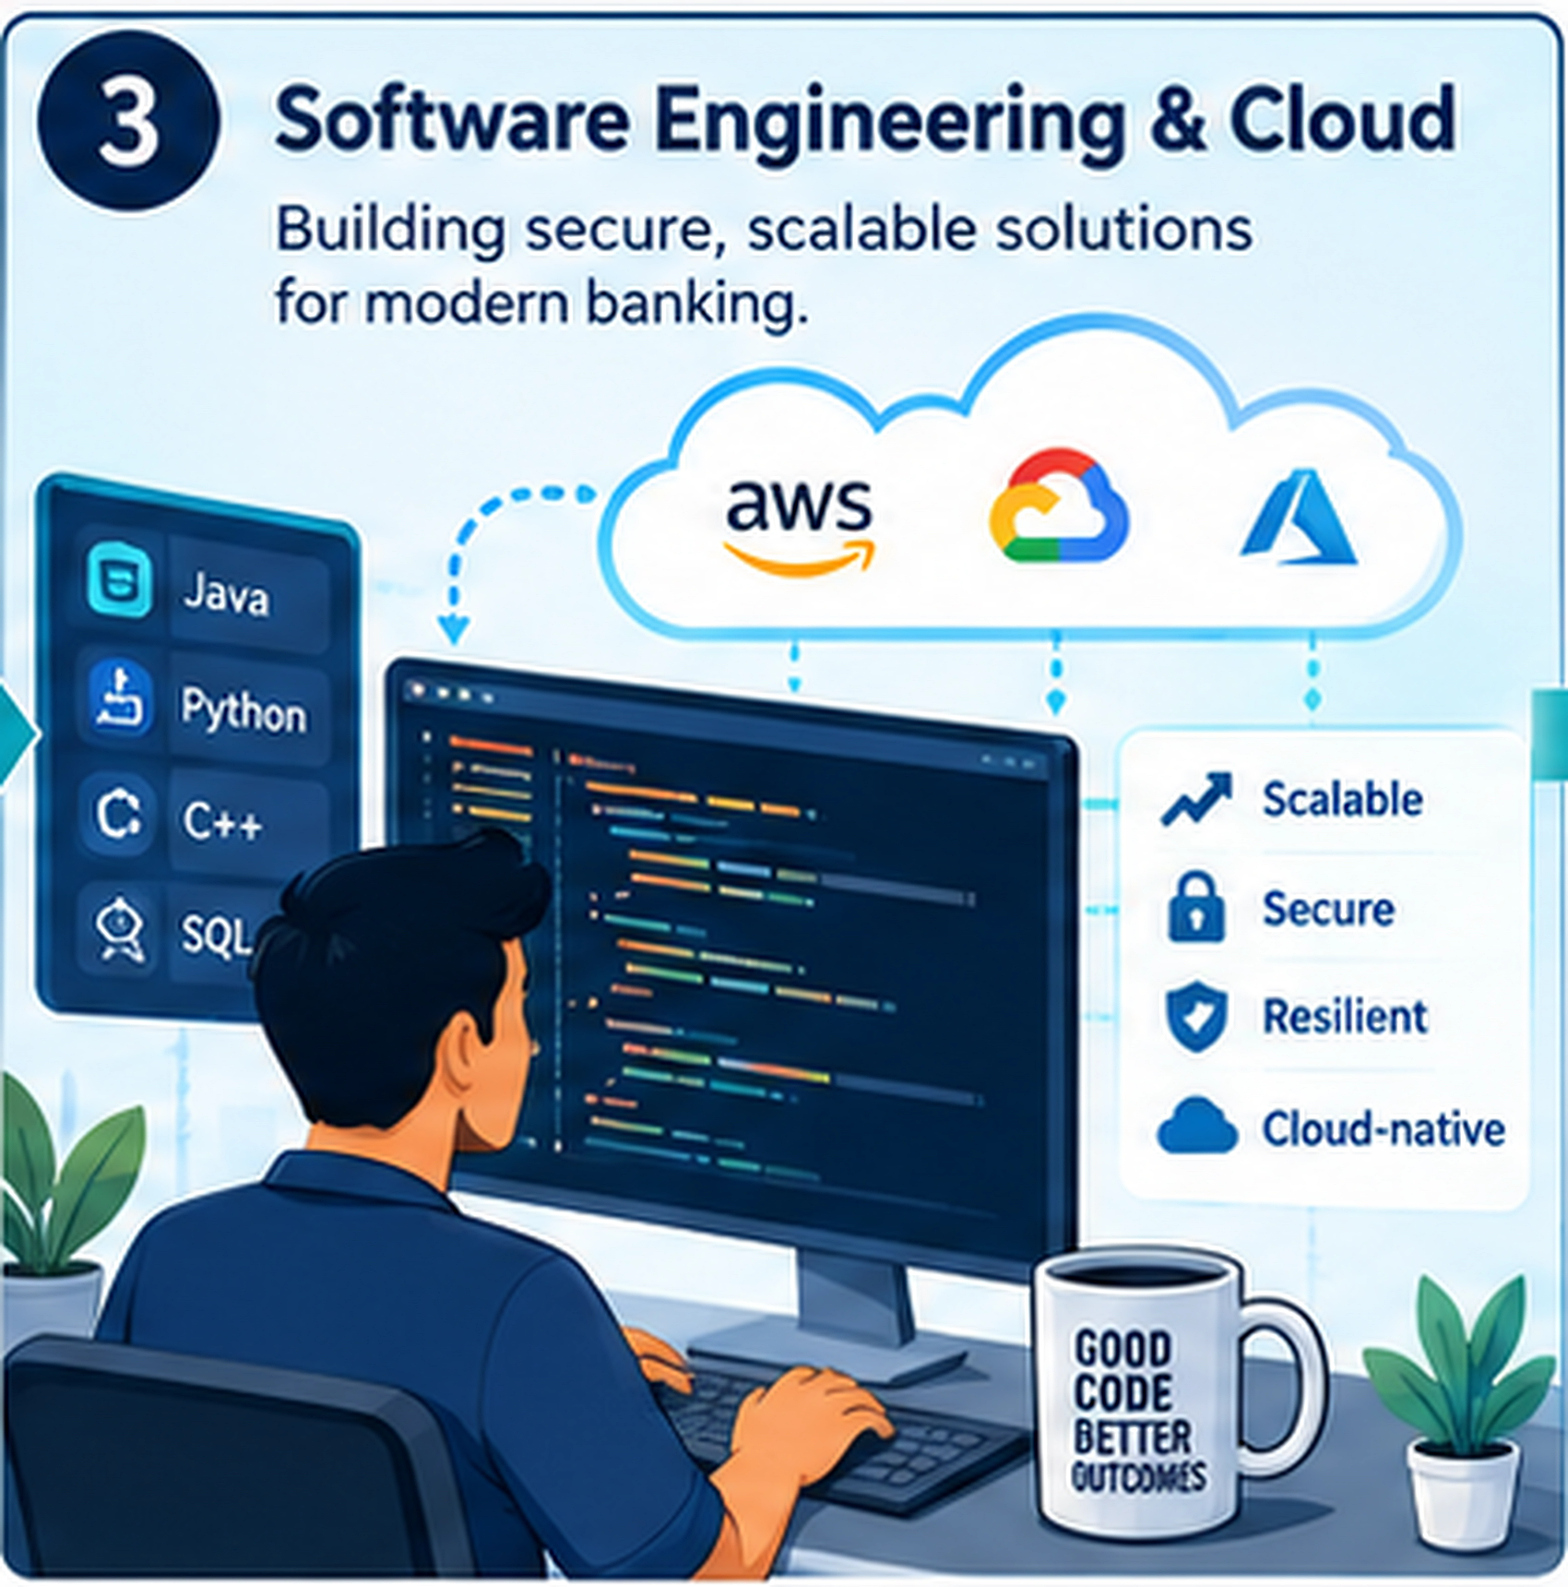
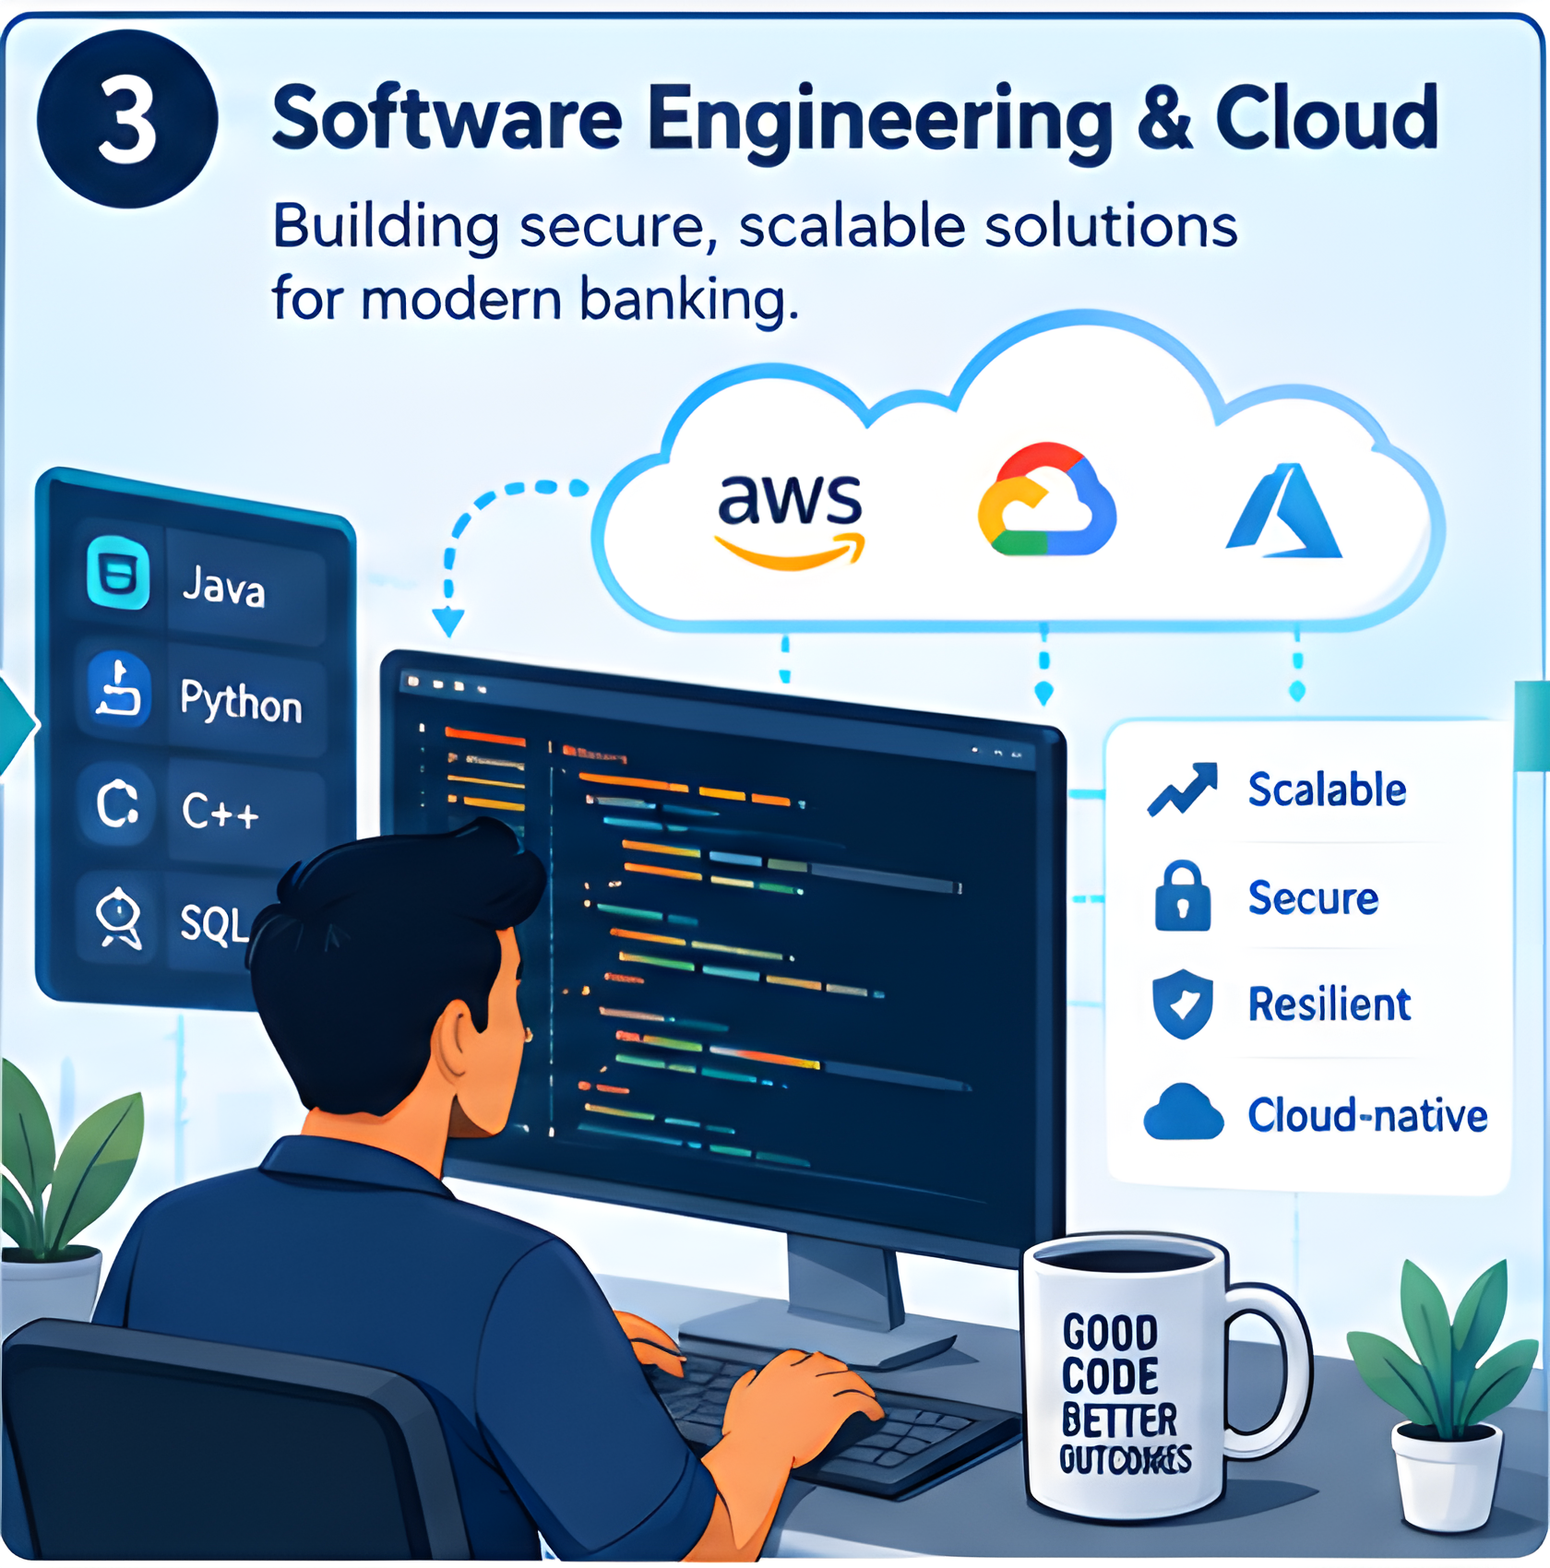
Frame-accurate renderer, Real-ESRGAN panels, full-height slides with push-in
Claude-Session: https://claude.ai/code/session_01LCCqAd9Y5JQ2y1siSFa5nV

diff --git a/render/scene.html b/render/scene.html
@@ -47,8 +47,9 @@
   .scene.active{ opacity:1; }
 
   .panel-wrap{ position:absolute; inset:0; overflow:hidden; background:#060E1E; }
-  .panel-wrap .card{ position:absolute; left:0; top:0; width:100%; will-change:transform; }
-  .panel-wrap .card img{ display:block; width:100%; height:auto; }
+  .panel-wrap img.bg{ position:absolute; inset:-60px; width:calc(100% + 120px); height:calc(100% + 120px); object-fit:cover; filter:blur(34px) brightness(0.55) saturate(1.1); }
+  .panel-wrap .card{ position:absolute; top:0; left:50%; height:1080px; transform:translateX(-50%); will-change:transform; }
+  .panel-wrap .card img{ display:block; height:100%; width:auto; }
 
   .tagline-wrap{
     position:absolute; left:0; right:0; bottom:16px; z-index:40;
@@ -76,9 +77,17 @@
   .kicker.show{ animation:taglineIn 0.7s ease forwards; }
 
   /* Ken Burns per-scene: each scene gets its own keyframes so start/end framing is intentional */
-  /* full-width slide: hold on the top, pan down to the bottom, hold; --pan is set per scene by JS */
-  @keyframes kb-pan{ 0%{ transform:translateY(0);} 18%{ transform:translateY(0);} 82%{ transform:translateY(var(--pan,0px));} 100%{ transform:translateY(var(--pan,0px));} }
-  .panel-wrap .card{ animation:kb-pan var(--dur,20s) cubic-bezier(.45,0,.2,1) forwards; }
+  @keyframes kb-push{ 0%{ transform:translateX(-50%) scale(1);} 26%{ transform:translateX(-50%) scale(1);} 80%{ transform:translateX(-50%) scale(1.5);} 100%{ transform:translateX(-50%) scale(1.5);} }
+  .panel-wrap .card{ animation:kb-push var(--dur,20s) cubic-bezier(.45,0,.2,1) forwards; }
+  .panel-wrap.s1 .card{ transform-origin:50% 58%; }
+  .panel-wrap.s2 .card{ transform-origin:58% 55%; }
+  .panel-wrap.s3 .card{ transform-origin:50% 48%; }
+  .panel-wrap.s4 .card{ transform-origin:60% 42%; }
+  .panel-wrap.s5 .card{ transform-origin:42% 48%; }
+  .panel-wrap.s6 .card{ transform-origin:58% 40%; }
+  .panel-wrap.s7 .card{ transform-origin:50% 55%; }
+  .panel-wrap.s8 .card{ transform-origin:50% 55%; }
+  .panel-wrap.s9 .card{ transform-origin:50% 68%; }
 
   /* ---- scene 4 bug gag overlay (kept, layered on top of the real art) ---- */
   #s4 .buggag{ position:absolute; bottom:28px; left:60px; right:60px; height:60px; z-index:30; }
@@ -150,43 +159,43 @@
   <div id="brand"><div class="dot"></div><div class="word">CAPCO</div><div class="sub">Technology Team</div></div>
 
   <div class="scene" id="s1">
-    <div class="panel-wrap s1"><div class="card"><img src="panels/panel1.png"></div></div>
+    <div class="panel-wrap s1"><img class="bg" src="panels/panel1.png"><div class="card"><img src="panels/panel1.png"></div></div>
     <div class="tagline-wrap"><div class="tagline">PEOPLE + TECHNOLOGY + BETTER OUTCOMES</div></div>
   </div>
 
   <div class="scene" id="s2">
-    <div class="panel-wrap s2"><div class="card"><img src="panels/panel2.png"></div></div>
+    <div class="panel-wrap s2"><img class="bg" src="panels/panel2.png"><div class="card"><img src="panels/panel2.png"></div></div>
     <div class="tagline-wrap"><div class="tagline">CLEAN → TRANSFORM → ANALYZE → INSIGHT</div></div>
   </div>
 
   <div class="scene" id="s3">
-    <div class="panel-wrap s3"><div class="card"><img src="panels/panel3.png"></div></div>
+    <div class="panel-wrap s3"><img class="bg" src="panels/panel3.png"><div class="card"><img src="panels/panel3.png"></div></div>
     <div class="tagline-wrap"><div class="tagline">BUILD. CONNECT. SCALE.</div></div>
   </div>
 
   <div class="scene" id="s4">
-    <div class="panel-wrap s4"><div class="card"><img src="panels/panel4.png"></div></div>
+    <div class="panel-wrap s4"><img class="bg" src="panels/panel4.png"><div class="card"><img src="panels/panel4.png"></div></div>
     <div class="buggag"><div class="track"></div><div class="scanner"></div><div class="bug">🐞</div></div>
     <div class="tagline-wrap"><div class="tagline">HIGHER QUALITY. GREATER CONFIDENCE.</div></div>
   </div>
 
   <div class="scene" id="s5">
-    <div class="panel-wrap s5"><div class="card"><img src="panels/panel5.png"></div></div>
+    <div class="panel-wrap s5"><img class="bg" src="panels/panel5.png"><div class="card"><img src="panels/panel5.png"></div></div>
     <div class="tagline-wrap"><div class="tagline">AUTOMATE → MODERNIZE → ACCELERATE</div></div>
   </div>
 
   <div class="scene" id="s6">
-    <div class="panel-wrap s6"><div class="card"><img src="panels/panel6.png"></div></div>
+    <div class="panel-wrap s6"><img class="bg" src="panels/panel6.png"><div class="card"><img src="panels/panel6.png"></div></div>
     <div class="tagline-wrap"><div class="tagline">RIGHT DATA. RIGHT CONTROLS. GREATER TRUST.</div></div>
   </div>
 
   <div class="scene" id="s7">
-    <div class="panel-wrap s7"><div class="card"><img src="panels/panel7.png"></div></div>
+    <div class="panel-wrap s7"><img class="bg" src="panels/panel7.png"><div class="card"><img src="panels/panel7.png"></div></div>
     <div class="tagline-wrap"><div class="tagline">FROM LEGACY TO MODERN.</div></div>
   </div>
 
   <div class="scene" id="s8">
-    <div class="panel-wrap s8"><div class="card"><img src="panels/panel8.png"></div></div>
+    <div class="panel-wrap s8"><img class="bg" src="panels/panel8.png"><div class="card"><img src="panels/panel8.png"></div></div>
     <div class="connectlabel cl1">DATA ENGINEERING</div>
     <div class="connectlabel cl2">CLOUD &amp; DEVOPS</div>
     <div class="connectlabel cl3">GOVERNANCE</div>
@@ -196,7 +205,7 @@
   </div>
 
   <div class="scene" id="s9">
-    <div class="panel-wrap s9"><div class="card"><img src="panels/panel8.png"></div></div>
+    <div class="panel-wrap s9"><img class="bg" src="panels/panel8.png"><div class="card"><img src="panels/panel8.png"></div></div>
     <div class="words">
       <div class="word9">DATA</div><div class="word9">ENGINEERING</div><div class="word9">CLOUD</div><div class="word9">QUALITY</div>
       <div class="word9">DEVOPS</div><div class="word9">GOVERNANCE</div><div class="word9">MIGRATION</div>
@@ -213,36 +222,35 @@
 
 <script>
   var TIMELINE = {"scenes": [{"id": "s1", "start": 0.0, "voStart": 2.5, "voDur": 27.945, "voEnd": 30.445, "end": 34.945}, {"id": "s2", "start": 34.945, "voStart": 36.945, "voDur": 23.584, "voEnd": 60.529, "end": 65.029}, {"id": "s3", "start": 65.029, "voStart": 67.029, "voDur": 25.008, "voEnd": 92.037, "end": 96.537}, {"id": "s4", "start": 96.537, "voStart": 98.537, "voDur": 17.264, "voEnd": 115.801, "end": 122.801}, {"id": "s5", "start": 122.801, "voStart": 124.801, "voDur": 15.52, "voEnd": 140.321, "end": 144.821}, {"id": "s6", "start": 144.821, "voStart": 146.821, "voDur": 20.48, "voEnd": 167.301, "end": 171.801}, {"id": "s7", "start": 171.801, "voStart": 173.801, "voDur": 17.488, "voEnd": 191.289, "end": 195.789}, {"id": "s8", "start": 195.789, "voStart": 197.789, "voDur": 21.536, "voEnd": 219.325, "end": 224.325}, {"id": "s9", "start": 224.325, "voStart": 226.525, "voDur": 12.376, "voEnd": 238.901, "end": 245.901}], "total": 245.901};
-  function ms(sec){ return Math.max(0, Math.round(sec*1000)); }
-
-  TIMELINE.scenes.forEach(function(s, i){
-    var el = document.getElementById(s.id);
-    var dur = (s.end - s.start) + 0.6;
-    var wrapEl = el.querySelector('.panel-wrap');
-    if (wrapEl) wrapEl.style.setProperty('--dur', dur + 's');
-    var im = el.querySelector('.panel-wrap .card img');
-    if (im) { var setPan = function(){ var hgt = im.getBoundingClientRect().height; wrapEl.style.setProperty('--pan', (-Math.max(0, hgt - 1080)) + 'px'); };
-      if (im.complete) setPan(); else im.addEventListener('load', setPan); }
-    setTimeout(function(){ el.classList.add('active');
-      document.getElementById('brand').style.opacity = '0.9'; }, ms(s.start));
-    var prev = TIMELINE.scenes[i - 1];
-    if (prev) {
-      var prevEl = document.getElementById(prev.id);
-      setTimeout(function(){ prevEl.classList.remove('active'); }, ms(s.start - 0.5));
-    }
-  });
-
+  var tagged = [];           // {anim, startT}
+  function tagNew(T){
+    var all = document.getAnimations();
+    all.forEach(function(a){ if (!a.__t){ a.__t = T; a.pause(); tagged.push(a); } });
+  }
+  var state = { scene:-1, tag:{}, closing:false };
   TIMELINE.scenes.forEach(function(s){
-    var el = document.querySelector('#'+s.id+' .tagline');
-    if(!el) return;
-    var showAt = s.voEnd - s.start - 0.2;
-    setTimeout(function(){ el.classList.add('show'); }, ms(s.start + Math.max(showAt,0.2)));
+    var wrap = document.querySelector('#'+s.id+' .panel-wrap');
+    wrap.style.setProperty('--dur', ((s.end - s.start) + 0.6) + 's');
   });
-
-  var last = TIMELINE.scenes[TIMELINE.scenes.length-1];
-  setTimeout(function(){
-    document.getElementById('closing').classList.add('show');
-  }, ms(last.voEnd + 1.2));
+  window.__seek = function(t){
+    // scene activation + crossfade (previous scene deactivates 0.5s before next starts)
+    TIMELINE.scenes.forEach(function(s, i){
+      var el = document.getElementById(s.id);
+      var next = TIMELINE.scenes[i+1];
+      var on = t >= s.start && (!next || t < next.start - 0.5);
+      if (on && !el.classList.contains('active')) { el.classList.add('active'); tagNew(s.start); }
+      if (!on && el.classList.contains('active') && next && t >= next.start - 0.5) { el.classList.remove('active'); tagNew(next.start - 0.5); }
+      var tl = el.querySelector('.tagline');
+      if (tl) { var showAt = s.start + Math.max(s.voEnd - s.start - 0.2, 0.2);
+        if (t >= showAt && !tl.classList.contains('show')) { tl.classList.add('show'); tagNew(showAt); } }
+    });
+    document.getElementById('brand').style.opacity = '0.9';
+    var last = TIMELINE.scenes[TIMELINE.scenes.length-1];
+    var cl = document.getElementById('closing');
+    if (t >= last.voEnd + 1.2 && !cl.classList.contains('show')) { cl.classList.add('show'); tagNew(last.voEnd + 1.2); }
+    tagNew(t);  // anything else that appeared
+    tagged.forEach(function(a){ var ct = (t - a.__t) * 1000; if (ct < 0) ct = 0; try { a.currentTime = ct; } catch(e){} });
+  };
 </script>
 </body>
 </html>

diff --git a/render/render_frames.js b/render/render_frames.js
@@ -1,0 +1,18 @@
+const { chromium } = require('playwright'); const path = require('path'); const fs = require('fs');
+(async () => {
+  const FPS = 25; const tl = JSON.parse(fs.readFileSync(path.resolve(__dirname, '../timeline.json'), 'utf8'));
+  const total = tl.total + 1.0; const nFrames = Math.ceil(total * FPS);
+  const outDir = path.resolve(__dirname, '../frames'); fs.mkdirSync(outDir, { recursive: true });
+  const b = await chromium.launch({ executablePath: '/opt/pw-browsers/chromium-1194/chrome-linux/chrome', args: ['--no-sandbox'] });
+  const p = await b.newPage({ viewport: { width: 1920, height: 1080 } });
+  await p.goto('file://' + path.resolve(__dirname, 'index3.html'));
+  await p.waitForTimeout(800);
+  // freeze all future animations: everything is driven by __seek
+  const t0 = Date.now();
+  for (let f = 0; f < nFrames; f++) {
+    await p.evaluate((t) => window.__seek(t), f / FPS);
+    await p.screenshot({ path: path.join(outDir, String(f).padStart(6, '0') + '.png'), type: 'png' });
+    if (f % 250 === 0) console.log('frame', f, '/', nFrames, 'elapsed', ((Date.now() - t0) / 1000).toFixed(0) + 's');
+  }
+  await b.close(); console.log('FRAMES_DONE', nFrames);
+})();

diff --git a/render/upscale_panels.py b/render/upscale_panels.py
@@ -1,0 +1,60 @@
+import sys, os, glob
+import numpy as np, torch, torch.nn as nn, torch.nn.functional as F
+from PIL import Image
+
+# RRDBNet (Real-ESRGAN x4plus architecture), minimal self-contained implementation
+class RDB(nn.Module):
+    def __init__(self, nf=64, gc=32):
+        super().__init__()
+        self.conv1 = nn.Conv2d(nf, gc, 3, 1, 1); self.conv2 = nn.Conv2d(nf + gc, gc, 3, 1, 1)
+        self.conv3 = nn.Conv2d(nf + 2*gc, gc, 3, 1, 1); self.conv4 = nn.Conv2d(nf + 3*gc, gc, 3, 1, 1)
+        self.conv5 = nn.Conv2d(nf + 4*gc, nf, 3, 1, 1); self.lrelu = nn.LeakyReLU(0.2, True)
+    def forward(self, x):
+        x1 = self.lrelu(self.conv1(x)); x2 = self.lrelu(self.conv2(torch.cat((x, x1), 1)))
+        x3 = self.lrelu(self.conv3(torch.cat((x, x1, x2), 1))); x4 = self.lrelu(self.conv4(torch.cat((x, x1, x2, x3), 1)))
+        x5 = self.conv5(torch.cat((x, x1, x2, x3, x4), 1)); return x5 * 0.2 + x
+class RRDB(nn.Module):
+    def __init__(self, nf, gc=32):
+        super().__init__(); self.rdb1 = RDB(nf, gc); self.rdb2 = RDB(nf, gc); self.rdb3 = RDB(nf, gc)
+    def forward(self, x):
+        out = self.rdb3(self.rdb2(self.rdb1(x))); return out * 0.2 + x
+class RRDBNet(nn.Module):
+    def __init__(self, nf=64, nb=23, gc=32):
+        super().__init__()
+        self.conv_first = nn.Conv2d(3, nf, 3, 1, 1)
+        self.body = nn.Sequential(*[RRDB(nf, gc) for _ in range(nb)])
+        self.conv_body = nn.Conv2d(nf, nf, 3, 1, 1)
+        self.conv_up1 = nn.Conv2d(nf, nf, 3, 1, 1); self.conv_up2 = nn.Conv2d(nf, nf, 3, 1, 1)
+        self.conv_hr = nn.Conv2d(nf, nf, 3, 1, 1); self.conv_last = nn.Conv2d(nf, 3, 3, 1, 1)
+        self.lrelu = nn.LeakyReLU(0.2, True)
+    def forward(self, x):
+        feat = self.conv_first(x); feat = feat + self.conv_body(self.body(feat))
+        feat = self.lrelu(self.conv_up1(F.interpolate(feat, scale_factor=2, mode='nearest')))
+        feat = self.lrelu(self.conv_up2(F.interpolate(feat, scale_factor=2, mode='nearest')))
+        return self.conv_last(self.lrelu(self.conv_hr(feat)))
+
+def load_model(path):
+    sd = torch.load(path, map_location='cpu')
+    sd = sd.get('params_ema', sd.get('params', sd))
+    m = RRDBNet(); m.load_state_dict(sd, strict=True); m.eval(); return m
+
+@torch.no_grad()
+def upscale(model, img, tile=256, pad=16):
+    x = torch.from_numpy(np.array(img).astype(np.float32) / 255.).permute(2, 0, 1).unsqueeze(0)
+    _, _, h, w = x.shape; out = torch.zeros(1, 3, h*4, w*4)
+    for y in range(0, h, tile):
+        for xx in range(0, w, tile):
+            y0, y1 = max(0, y-pad), min(h, y+tile+pad); x0, x1 = max(0, xx-pad), min(w, xx+tile+pad)
+            o = model(x[:, :, y0:y1, x0:x1])
+            ty, tx = (y-y0)*4, (xx-x0)*4; hh, ww = min(tile, h-y)*4, min(tile, w-xx)*4
+            out[:, :, y*4:y*4+hh, xx*4:xx*4+ww] = o[:, :, ty:ty+hh, tx:tx+ww]
+    arr = (out.squeeze(0).permute(1, 2, 0).clamp(0, 1).numpy() * 255).round().astype(np.uint8)
+    return Image.fromarray(arr)
+
+if __name__ == '__main__':
+    src_dir, dst_dir, weights = sys.argv[1], sys.argv[2], sys.argv[3]
+    os.makedirs(dst_dir, exist_ok=True); torch.set_num_threads(os.cpu_count() or 4)
+    model = load_model(weights)
+    for p in sorted(glob.glob(os.path.join(src_dir, 'panel*.png'))):
+        img = Image.open(p).convert('RGB'); out = upscale(model, img)
+        out.save(os.path.join(dst_dir, os.path.basename(p))); print(os.path.basename(p), img.size, '->', out.size, flush=True)

diff --git a/render/README.md b/render/README.md
@@ -19,12 +19,12 @@ often — see "Possible upgrade" below.
 | --- | --- |
 | Source artwork | The Capco storyboard image the user attached — cropped into its 8 numbered panels and used as the actual on-screen visuals (Ken Burns pan/zoom), not redrawn |
 | Panel crop-boundary detection | Python + Pillow/NumPy, sampling pixel colors along scan-lines to find the real card edges (see "Cropping the storyboard" below) instead of a naive even grid split |
-| Panel upscaling/sharpening | ffmpeg `scale` (lanczos) + `unsharp` filter, since the source panels are ~400×520px and need to fill a 1920×1080 frame |
+| Panel super-resolution | Real-ESRGAN x4plus (weights from its GitHub release) run through a self-contained RRDBNet in PyTorch (`upscale_panels.py`), since the source panels are only ~400×420px |
 | Voice-over | [Piper](https://github.com/rhasspy/piper) — offline neural TTS; a different narrator per capability (ryan, amy, alan, southern_english_female, lessac, kathleen, danny — US/UK, male/female), intro and closing share the host voice; mapping in `gen_narration.py` |
 | Background music | Procedurally generated with NumPy: 112 BPM electronic bed (16th-note synth arpeggio, soft kick, hats, sub bass, low-passed pad), mixed at -14 dB and side-chain ducked under the narration with ffmpeg `sidechaincompress` — no royalty-free-music API was reachable from this environment |
 | Animation / motion graphics | Hand-written HTML/CSS/JS (Ken Burns keyframes, crossfades, the scene-8 capability-network overlay, the scene-4 bug sight-gag) |
-| Rendering the animation to video | [Playwright](https://playwright.dev/) driving headless Chromium, using `recordVideo` to capture the page in real time |
-| Audio mixing & final encode | ffmpeg — mixes narration + music, re-encodes the recorded `.webm` to H.264/AAC `.mp4` |
+| Rendering the animation to video | [Playwright](https://playwright.dev/) driving headless Chromium frame by frame: the page exposes `__seek(t)` (scene state + every CSS animation's `currentTime` set deterministically), one lossless PNG per frame at 25 fps (`render_frames.js`) |
+| Audio mixing & final encode | ffmpeg — mixes narration + music; `encode_frames.sh` encodes the PNG sequence with libx264 CRF 17 (preset slow) + AAC 192k |
 
 ## Cropping the storyboard
 
@@ -41,9 +41,9 @@ background between cards: 1: 0-428, 86-510 · 2: 434-833 · 3: 843-1262 ·
 Each panel is then lanczos-upscaled to 1700px wide and lightly
 sharpened.
 
-In the video every slide fills the full frame width (no borders or blurred
-backdrop); the camera holds on the top of the slide, pans slowly down to the
-bottom and holds, so the whole slide is seen at full size. Overlays (tagline
+In the video every slide is first shown whole at full frame height (sides
+extended with a blurred continuation of the slide, no border), then the
+camera pushes in ~1.5× on the slide's focal area and holds. Overlays (tagline
 chip, bug gag, scene-8 labels) are lower-thirds over the picture.
 
 ## Pipeline
@@ -62,11 +62,11 @@ chip, bug gag, scene-8 labels) are lower-thirds over the picture.
    few small overlays (tagline chip, bug gag, capability-network labels)
    sit on top. Driven by `setTimeout`s scheduled from the injected
    `timeline.json`.
-5. **`record.js`** — Playwright loads `scene.html` in headless Chromium and
-   records it in real time via `recordVideo` (produces a silent `.webm`).
-6. **`assemble_final.sh`** — mixes narration (full volume) with music
-   (ducked ~-9dB) into `final_audio.wav`, then re-encodes the `.webm` to
-   H.264/AAC `.mp4` with ffmpeg, muxing in that audio track.
+5. **`render_frames.js`** — Playwright loads `scene.html`, calls `__seek(t)`
+   for every frame (25 fps) and saves a lossless PNG per frame.
+6. **`encode_frames.sh`** — encodes the PNG sequence with the mixed
+   soundtrack (narration + side-chain-ducked music) into a high-quality
+   H.264/AAC `.mp4`.
 
 ## Regenerating
 
@@ -79,8 +79,9 @@ python3 gen_narration.py        # -> timeline.json, audio/*_raw.wav
 python3 gen_music.py            # -> audio/music.wav
 bash build_narration_track.sh   # -> audio/narration.wav
 # inject timeline.json into scene.html in place of __TIMELINE_JSON__
-node record.js                  # -> video_raw/*.webm  (real-time capture, ~4 min)
-bash assemble_final.sh          # -> capco_technology_team.mp4
+python3 upscale_panels.py panels_src panels RealESRGAN_x4plus.pth   # 4x super-resolution
+node render_frames.js           # -> frames/%06d.png (25 fps, ~12 min)
+bash encode_frames.sh           # -> capco_technology_team.mp4
 ```
 
 ## Possible upgrade: Remotion
